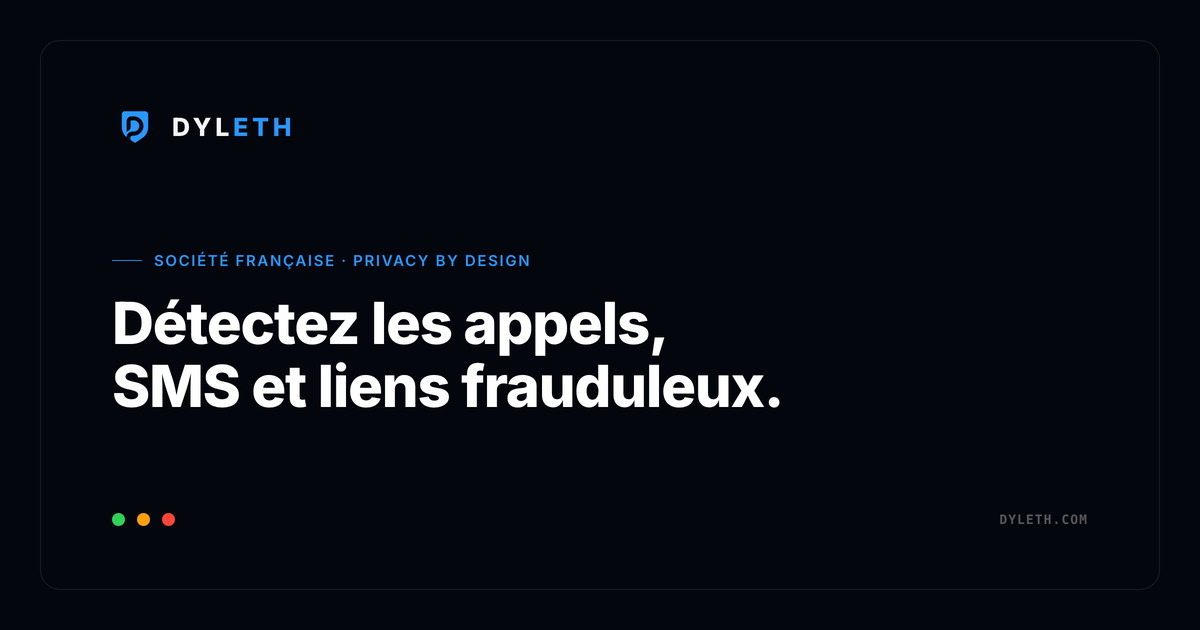
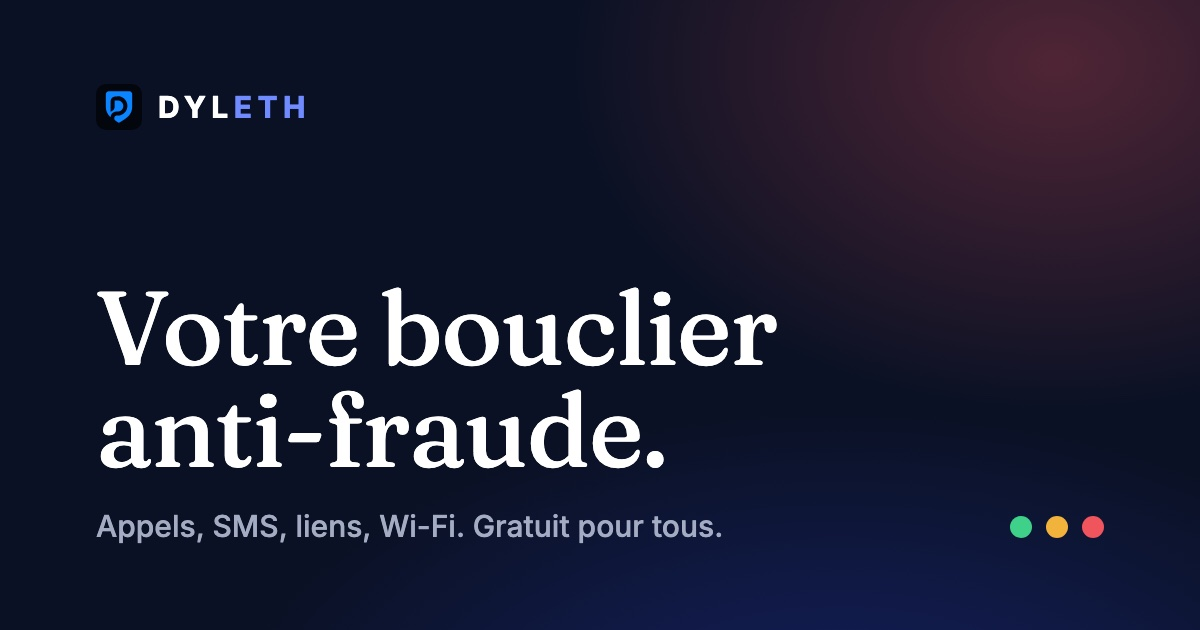
Référencement : nouvelle image de partage « bouclier anti-fraude » sur toutes les pages, plan du site daté du jour

diff --git a/comprendre/arnaque-colis-sms.html b/comprendre/arnaque-colis-sms.html
@@ -283,6 +283,11 @@ main{display:block}
   .nav-right-desktop .lang-dropdown{position:absolute!important;top:52px!important;right:0!important;left:auto!important;bottom:auto!important;border-radius:12px!important;padding:8px!important;min-width:170px!important;z-index:10003!important}
 }
 </style>
+<meta property="og:image" content="https://dyleth.com/assets/seo/dyleth-og-home.jpg">
+<meta property="og:image:width" content="1200">
+<meta property="og:image:height" content="630">
+<meta property="og:image:alt" content="DYLETH, votre bouclier anti-fraude : appels, SMS, liens, Wi-Fi.">
+<meta name="twitter:card" content="summary_large_image">
 <link rel="preload" href="/assets/fonts/inter-latin.woff2" as="font" type="font/woff2" crossorigin>
 <link rel="preload" href="/assets/fonts/fraunces-latin.woff2" as="font" type="font/woff2" crossorigin>
 <link rel="stylesheet" href="/assets/premium.css">

diff --git a/comprendre/quishing.html b/comprendre/quishing.html
@@ -283,6 +283,11 @@ main{display:block}
   .nav-right-desktop .lang-dropdown{position:absolute!important;top:52px!important;right:0!important;left:auto!important;bottom:auto!important;border-radius:12px!important;padding:8px!important;min-width:170px!important;z-index:10003!important}
 }
 </style>
+<meta property="og:image" content="https://dyleth.com/assets/seo/dyleth-og-home.jpg">
+<meta property="og:image:width" content="1200">
+<meta property="og:image:height" content="630">
+<meta property="og:image:alt" content="DYLETH, votre bouclier anti-fraude : appels, SMS, liens, Wi-Fi.">
+<meta name="twitter:card" content="summary_large_image">
 <link rel="preload" href="/assets/fonts/inter-latin.woff2" as="font" type="font/woff2" crossorigin>
 <link rel="preload" href="/assets/fonts/fraunces-latin.woff2" as="font" type="font/woff2" crossorigin>
 <link rel="stylesheet" href="/assets/premium.css">

diff --git a/comprendre/signaler-une-arnaque.html b/comprendre/signaler-une-arnaque.html
@@ -283,6 +283,11 @@ main{display:block}
   .nav-right-desktop .lang-dropdown{position:absolute!important;top:52px!important;right:0!important;left:auto!important;bottom:auto!important;border-radius:12px!important;padding:8px!important;min-width:170px!important;z-index:10003!important}
 }
 </style>
+<meta property="og:image" content="https://dyleth.com/assets/seo/dyleth-og-home.jpg">
+<meta property="og:image:width" content="1200">
+<meta property="og:image:height" content="630">
+<meta property="og:image:alt" content="DYLETH, votre bouclier anti-fraude : appels, SMS, liens, Wi-Fi.">
+<meta name="twitter:card" content="summary_large_image">
 <link rel="preload" href="/assets/fonts/inter-latin.woff2" as="font" type="font/woff2" crossorigin>
 <link rel="preload" href="/assets/fonts/fraunces-latin.woff2" as="font" type="font/woff2" crossorigin>
 <link rel="stylesheet" href="/assets/premium.css">

diff --git a/delete-my-account.html b/delete-my-account.html
@@ -298,6 +298,11 @@ main{display:block}
   .nav-right-desktop .lang-dropdown{position:absolute!important;top:52px!important;right:0!important;left:auto!important;bottom:auto!important;border-radius:12px!important;padding:8px!important;min-width:170px!important;z-index:10003!important}
 }
 </style>
+<meta property="og:image" content="https://dyleth.com/assets/seo/dyleth-og-home.jpg">
+<meta property="og:image:width" content="1200">
+<meta property="og:image:height" content="630">
+<meta property="og:image:alt" content="DYLETH, votre bouclier anti-fraude : appels, SMS, liens, Wi-Fi.">
+<meta name="twitter:card" content="summary_large_image">
 <link rel="preload" href="/assets/fonts/inter-latin.woff2" as="font" type="font/woff2" crossorigin>
 <link rel="preload" href="/assets/fonts/fraunces-latin.woff2" as="font" type="font/woff2" crossorigin>
 <link rel="stylesheet" href="/assets/premium.css">

diff --git a/merci/index.html b/merci/index.html
@@ -233,6 +233,11 @@ main{display:block}
 }
 </style>
 <meta name="robots" content="noindex">
+<meta property="og:image" content="https://dyleth.com/assets/seo/dyleth-og-home.jpg">
+<meta property="og:image:width" content="1200">
+<meta property="og:image:height" content="630">
+<meta property="og:image:alt" content="DYLETH, votre bouclier anti-fraude : appels, SMS, liens, Wi-Fi.">
+<meta name="twitter:card" content="summary_large_image">
 <link rel="preload" href="/assets/fonts/inter-latin.woff2" as="font" type="font/woff2" crossorigin>
 <link rel="preload" href="/assets/fonts/fraunces-latin.woff2" as="font" type="font/woff2" crossorigin>
 <link rel="stylesheet" href="/assets/premium.css">

diff --git a/secteurs/administrations.html b/secteurs/administrations.html
@@ -165,6 +165,11 @@ a{color:inherit}main{display:block}
   ]
 }
 </script>
+<meta property="og:image" content="https://dyleth.com/assets/seo/dyleth-og-home.jpg">
+<meta property="og:image:width" content="1200">
+<meta property="og:image:height" content="630">
+<meta property="og:image:alt" content="DYLETH, votre bouclier anti-fraude : appels, SMS, liens, Wi-Fi.">
+<meta name="twitter:card" content="summary_large_image">
 <link rel="preload" href="/assets/fonts/inter-latin.woff2" as="font" type="font/woff2" crossorigin>
 <link rel="preload" href="/assets/fonts/fraunces-latin.woff2" as="font" type="font/woff2" crossorigin>
 <link rel="stylesheet" href="/assets/premium.css">

diff --git a/secteurs/associations.html b/secteurs/associations.html
@@ -165,6 +165,11 @@ a{color:inherit}main{display:block}
   ]
 }
 </script>
+<meta property="og:image" content="https://dyleth.com/assets/seo/dyleth-og-home.jpg">
+<meta property="og:image:width" content="1200">
+<meta property="og:image:height" content="630">
+<meta property="og:image:alt" content="DYLETH, votre bouclier anti-fraude : appels, SMS, liens, Wi-Fi.">
+<meta name="twitter:card" content="summary_large_image">
 <link rel="preload" href="/assets/fonts/inter-latin.woff2" as="font" type="font/woff2" crossorigin>
 <link rel="preload" href="/assets/fonts/fraunces-latin.woff2" as="font" type="font/woff2" crossorigin>
 <link rel="stylesheet" href="/assets/premium.css">

diff --git a/secteurs/banques-assurances.html b/secteurs/banques-assurances.html
@@ -165,6 +165,11 @@ a{color:inherit}main{display:block}
   ]
 }
 </script>
+<meta property="og:image" content="https://dyleth.com/assets/seo/dyleth-og-home.jpg">
+<meta property="og:image:width" content="1200">
+<meta property="og:image:height" content="630">
+<meta property="og:image:alt" content="DYLETH, votre bouclier anti-fraude : appels, SMS, liens, Wi-Fi.">
+<meta name="twitter:card" content="summary_large_image">
 <link rel="preload" href="/assets/fonts/inter-latin.woff2" as="font" type="font/woff2" crossorigin>
 <link rel="preload" href="/assets/fonts/fraunces-latin.woff2" as="font" type="font/woff2" crossorigin>
 <link rel="stylesheet" href="/assets/premium.css">

diff --git a/secteurs/commerce.html b/secteurs/commerce.html
@@ -165,6 +165,11 @@ a{color:inherit}main{display:block}
   ]
 }
 </script>
+<meta property="og:image" content="https://dyleth.com/assets/seo/dyleth-og-home.jpg">
+<meta property="og:image:width" content="1200">
+<meta property="og:image:height" content="630">
+<meta property="og:image:alt" content="DYLETH, votre bouclier anti-fraude : appels, SMS, liens, Wi-Fi.">
+<meta name="twitter:card" content="summary_large_image">
 <link rel="preload" href="/assets/fonts/inter-latin.woff2" as="font" type="font/woff2" crossorigin>
 <link rel="preload" href="/assets/fonts/fraunces-latin.woff2" as="font" type="font/woff2" crossorigin>
 <link rel="stylesheet" href="/assets/premium.css">

diff --git a/secteurs/crypto.html b/secteurs/crypto.html
@@ -165,6 +165,11 @@ a{color:inherit}main{display:block}
   ]
 }
 </script>
+<meta property="og:image" content="https://dyleth.com/assets/seo/dyleth-og-home.jpg">
+<meta property="og:image:width" content="1200">
+<meta property="og:image:height" content="630">
+<meta property="og:image:alt" content="DYLETH, votre bouclier anti-fraude : appels, SMS, liens, Wi-Fi.">
+<meta name="twitter:card" content="summary_large_image">
 <link rel="preload" href="/assets/fonts/inter-latin.woff2" as="font" type="font/woff2" crossorigin>
 <link rel="preload" href="/assets/fonts/fraunces-latin.woff2" as="font" type="font/woff2" crossorigin>
 <link rel="stylesheet" href="/assets/premium.css">

diff --git a/secteurs/droit-finance.html b/secteurs/droit-finance.html
@@ -165,6 +165,11 @@ a{color:inherit}main{display:block}
   ]
 }
 </script>
+<meta property="og:image" content="https://dyleth.com/assets/seo/dyleth-og-home.jpg">
+<meta property="og:image:width" content="1200">
+<meta property="og:image:height" content="630">
+<meta property="og:image:alt" content="DYLETH, votre bouclier anti-fraude : appels, SMS, liens, Wi-Fi.">
+<meta name="twitter:card" content="summary_large_image">
 <link rel="preload" href="/assets/fonts/inter-latin.woff2" as="font" type="font/woff2" crossorigin>
 <link rel="preload" href="/assets/fonts/fraunces-latin.woff2" as="font" type="font/woff2" crossorigin>
 <link rel="stylesheet" href="/assets/premium.css">

diff --git a/secteurs/enseignement.html b/secteurs/enseignement.html
@@ -165,6 +165,11 @@ a{color:inherit}main{display:block}
   ]
 }
 </script>
+<meta property="og:image" content="https://dyleth.com/assets/seo/dyleth-og-home.jpg">
+<meta property="og:image:width" content="1200">
+<meta property="og:image:height" content="630">
+<meta property="og:image:alt" content="DYLETH, votre bouclier anti-fraude : appels, SMS, liens, Wi-Fi.">
+<meta name="twitter:card" content="summary_large_image">
 <link rel="preload" href="/assets/fonts/inter-latin.woff2" as="font" type="font/woff2" crossorigin>
 <link rel="preload" href="/assets/fonts/fraunces-latin.woff2" as="font" type="font/woff2" crossorigin>
 <link rel="stylesheet" href="/assets/premium.css">
